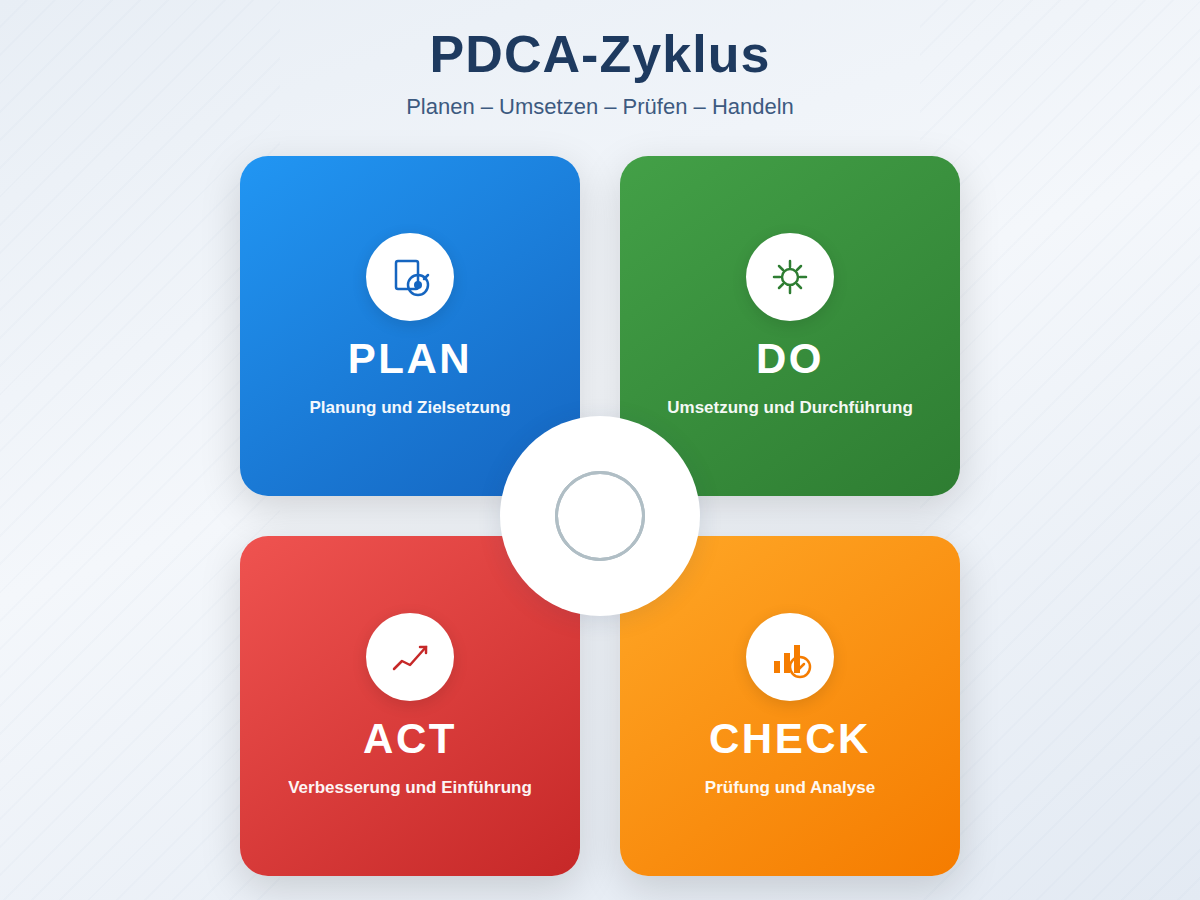
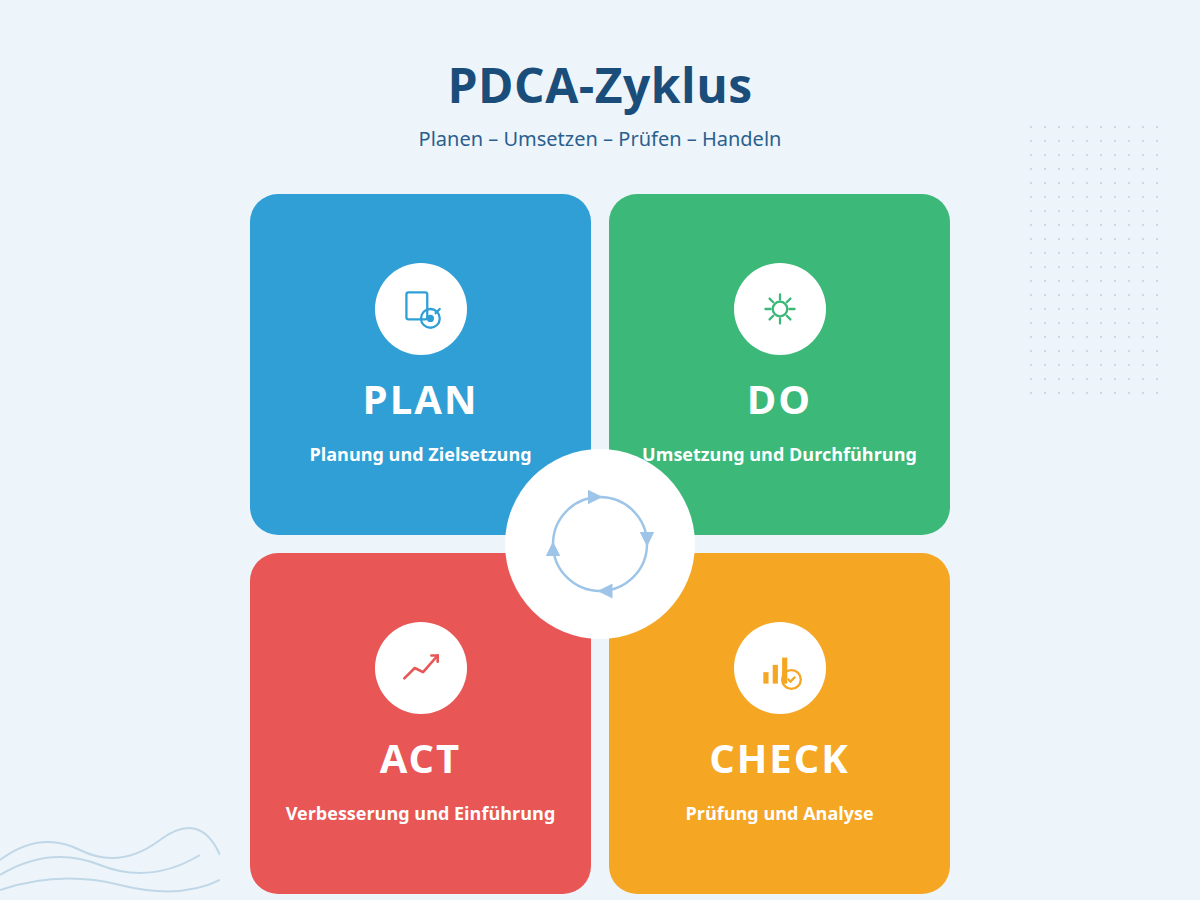
PDCA kép: referencia dizájn, csak német szöveg

diff --git a/documents/pdca/pdca-zyklus-de.html b/documents/pdca/pdca-zyklus-de.html
@@ -8,124 +8,130 @@
     body {
       width: 1200px;
       height: 900px;
-      font-family: "Helvetica Neue", Helvetica, Arial, sans-serif;
-      background: linear-gradient(160deg, #e8eef5 0%, #f4f7fb 45%, #e3eaf3 100%);
+      font-family: "Segoe UI", "Helvetica Neue", Arial, sans-serif;
+      background: #eef5fa;
       display: flex;
       flex-direction: column;
       align-items: center;
-      justify-content: center;
+      justify-content: flex-start;
+      padding-top: 52px;
       overflow: hidden;
       position: relative;
     }
-    body::before, body::after {
-      content: "";
+    .waves {
       position: absolute;
-      width: 280px;
-      height: 100%;
-      opacity: 0.35;
-      background: repeating-linear-gradient(
-        135deg,
-        transparent,
-        transparent 18px,
-        rgba(100, 130, 170, 0.08) 18px,
-        rgba(100, 130, 170, 0.08) 20px
-      );
+      left: 0;
+      bottom: 0;
+      width: 220px;
+      height: 180px;
+      opacity: 0.45;
     }
-    body::before { left: 0; }
-    body::after { right: 0; }
+    .dots {
+      position: absolute;
+      right: 36px;
+      top: 120px;
+      width: 140px;
+      height: 280px;
+      opacity: 0.35;
+      background-image: radial-gradient(#8aa8c4 1.2px, transparent 1.2px);
+      background-size: 14px 14px;
+    }
     .header {
       text-align: center;
-      margin-bottom: 36px;
+      margin-bottom: 42px;
       z-index: 1;
     }
     .header h1 {
-      font-size: 52px;
+      font-size: 48px;
       font-weight: 800;
-      color: #1e3a5f;
-      letter-spacing: 0.02em;
+      color: #1a4d7a;
+      letter-spacing: 0.01em;
     }
     .header p {
-      margin-top: 10px;
-      font-size: 22px;
-      color: #3d5a80;
+      margin-top: 8px;
+      font-size: 20px;
+      color: #2a5f8f;
       font-weight: 500;
     }
     .grid-wrap {
       position: relative;
-      width: 720px;
-      height: 720px;
+      width: 700px;
+      height: 700px;
       z-index: 1;
+      display: grid;
+      grid-template-columns: 1fr 1fr;
+      grid-template-rows: 1fr 1fr;
+      gap: 18px;
+    }
+    .quad {
+      display: flex;
+      flex-direction: column;
+      align-items: center;
+      justify-content: center;
+      gap: 16px;
+      color: #fff;
+    }
+    .quad.plan {
+      background: #2f9fd6;
+      border-radius: 28px 28px 28px 28px;
+    }
+    .quad.do {
+      background: #3cb878;
+      border-radius: 28px 28px 28px 28px;
+    }
+    .quad.check {
+      background: #f5a623;
+      border-radius: 28px 28px 28px 28px;
+    }
+    .quad.act {
+      background: #e85656;
+      border-radius: 28px 28px 28px 28px;
+    }
+    .icon-ring {
+      width: 92px;
+      height: 92px;
+      background: #fff;
+      border-radius: 50%;
+      display: grid;
+      place-items: center;
+    }
+    .icon-ring svg { width: 50px; height: 50px; }
+    .quad h2 {
+      font-size: 40px;
+      font-weight: 800;
+      letter-spacing: 0.05em;
+    }
+    .quad p {
+      font-size: 18px;
+      font-weight: 600;
+      text-align: center;
+      max-width: 280px;
+      line-height: 1.35;
     }
     .center {
       position: absolute;
       left: 50%;
       top: 50%;
       transform: translate(-50%, -50%);
-      width: 200px;
-      height: 200px;
+      width: 190px;
+      height: 190px;
       background: #fff;
       border-radius: 50%;
-      box-shadow: 0 4px 24px rgba(30, 58, 95, 0.12);
       z-index: 2;
-    }
-    .arrow {
-      position: absolute;
-      left: 50%;
-      top: 50%;
-      width: 90px;
-      height: 90px;
-      margin: -45px 0 0 -45px;
-      border: 3px solid #b0bec5;
-      border-color: transparent #b0bec5 #b0bec5 transparent;
-      border-radius: 50%;
-      transform: rotate(-45deg);
-    }
-    .arrow:nth-child(2) { transform: rotate(45deg); }
-    .arrow:nth-child(3) { transform: rotate(135deg); }
-    .arrow:nth-child(4) { transform: rotate(225deg); }
-    .quad {
-      position: absolute;
-      width: 340px;
-      height: 340px;
-      border-radius: 28px;
-      display: flex;
-      flex-direction: column;
-      align-items: center;
-      justify-content: center;
-      gap: 14px;
-      color: #fff;
-      box-shadow: 0 12px 40px rgba(0,0,0,0.15);
-    }
-    .quad.plan { background: linear-gradient(145deg, #2196f3, #1565c0); top: 0; left: 0; }
-    .quad.do { background: linear-gradient(145deg, #43a047, #2e7d32); top: 0; right: 0; }
-    .quad.check { background: linear-gradient(145deg, #ffa726, #f57c00); bottom: 0; right: 0; }
-    .quad.act { background: linear-gradient(145deg, #ef5350, #c62828); bottom: 0; left: 0; }
-    .icon-ring {
-      width: 88px;
-      height: 88px;
-      background: #fff;
-      border-radius: 50%;
       display: grid;
       place-items: center;
-      box-shadow: 0 4px 16px rgba(0,0,0,0.12);
     }
-    .icon-ring svg { width: 48px; height: 48px; }
-    .quad h2 {
-      font-size: 42px;
-      font-weight: 800;
-      letter-spacing: 0.06em;
-    }
-    .quad p {
-      font-size: 17px;
-      font-weight: 600;
-      opacity: 0.95;
-      text-align: center;
-      max-width: 260px;
-      line-height: 1.3;
-    }
+    .center svg { width: 130px; height: 130px; }
   </style>
 </head>
 <body>
+  <svg class="waves" viewBox="0 0 220 180" fill="none" xmlns="http://www.w3.org/2000/svg">
+    <path d="M0 140 Q40 110 80 130 T160 120 T220 135" stroke="#8ab4d4" stroke-width="2" fill="none"/>
+    <path d="M0 155 Q50 125 100 145 T200 135" stroke="#8ab4d4" stroke-width="2" fill="none"/>
+    <path d="M0 170 Q60 150 120 165 T220 160" stroke="#8ab4d4" stroke-width="2" fill="none"/>
+  </svg>
+  <div class="dots" aria-hidden="true"></div>
+
   <header class="header">
     <h1>PDCA-Zyklus</h1>
     <p>Planen – Umsetzen – Prüfen – Handeln</p>
@@ -134,12 +140,7 @@
   <div class="grid-wrap">
     <div class="quad plan">
       <div class="icon-ring">
-        <svg viewBox="0 0 48 48" fill="none" xmlns="http://www.w3.org/2000/svg">
-          <rect x="10" y="8" width="22" height="28" rx="2" stroke="#1565c0" stroke-width="2.5"/>
-          <circle cx="32" cy="32" r="10" stroke="#1565c0" stroke-width="2.5"/>
-          <circle cx="32" cy="32" r="4" fill="#1565c0"/>
-          <path d="M38 26l4-4" stroke="#1565c0" stroke-width="2.5" stroke-linecap="round"/>
-        </svg>
+        <svg viewBox="0 0 48 48" fill="none"><rect x="10" y="8" width="20" height="26" rx="2" stroke="#2f9fd6" stroke-width="2.2"/><circle cx="33" cy="33" r="9" stroke="#2f9fd6" stroke-width="2.2"/><circle cx="33" cy="33" r="3.5" fill="#2f9fd6"/><path d="M38 28l4-4" stroke="#2f9fd6" stroke-width="2.2" stroke-linecap="round"/></svg>
       </div>
       <h2>PLAN</h2>
       <p>Planung und Zielsetzung</p>
@@ -147,45 +148,36 @@
 
     <div class="quad do">
       <div class="icon-ring">
-        <svg viewBox="0 0 48 48" fill="none" xmlns="http://www.w3.org/2000/svg">
-          <circle cx="24" cy="24" r="8" stroke="#2e7d32" stroke-width="2.5"/>
-          <path d="M24 8v6M24 34v6M8 24h6M34 24h6M13 13l4 4M31 31l4 4M35 13l-4 4M17 31l-4 4" stroke="#2e7d32" stroke-width="2.5" stroke-linecap="round"/>
-        </svg>
+        <svg viewBox="0 0 48 48" fill="none"><circle cx="24" cy="24" r="7" stroke="#3cb878" stroke-width="2.2"/><path d="M24 10v5M24 33v5M10 24h5M33 24h5M14 14l3.5 3.5M30.5 30.5 34 34M34 14l-3.5 3.5M14 34l3.5-3.5" stroke="#3cb878" stroke-width="2.2" stroke-linecap="round"/></svg>
       </div>
       <h2>DO</h2>
       <p>Umsetzung und Durchführung</p>
     </div>
 
-    <div class="quad check">
-      <div class="icon-ring">
-        <svg viewBox="0 0 48 48" fill="none" xmlns="http://www.w3.org/2000/svg">
-          <rect x="8" y="28" width="6" height="12" fill="#f57c00"/>
-          <rect x="18" y="20" width="6" height="20" fill="#f57c00"/>
-          <rect x="28" y="12" width="6" height="28" fill="#f57c00"/>
-          <circle cx="34" cy="34" r="10" stroke="#f57c00" stroke-width="2.5"/>
-          <path d="M31 34l2 2 5-5" stroke="#f57c00" stroke-width="2.5" stroke-linecap="round"/>
-        </svg>
-      </div>
-      <h2>CHECK</h2>
-      <p>Prüfung und Analyse</p>
-    </div>
-
     <div class="quad act">
       <div class="icon-ring">
-        <svg viewBox="0 0 48 48" fill="none" xmlns="http://www.w3.org/2000/svg">
-          <path d="M8 36 L16 28 L24 32 L40 14" stroke="#c62828" stroke-width="2.5" stroke-linecap="round" stroke-linejoin="round"/>
-          <path d="M34 14h6v6" stroke="#c62828" stroke-width="2.5" stroke-linecap="round"/>
-        </svg>
+        <svg viewBox="0 0 48 48" fill="none"><path d="M8 34 L18 24 L26 28 L40 12" stroke="#e85656" stroke-width="2.5" stroke-linecap="round" stroke-linejoin="round"/><path d="M34 12h6v6" stroke="#e85656" stroke-width="2.5" stroke-linecap="round"/></svg>
       </div>
       <h2>ACT</h2>
       <p>Verbesserung und Einführung</p>
     </div>
 
+    <div class="quad check">
+      <div class="icon-ring">
+        <svg viewBox="0 0 48 48" fill="none"><rect x="8" y="28" width="5" height="11" fill="#f5a623"/><rect x="17" y="21" width="5" height="18" fill="#f5a623"/><rect x="26" y="14" width="5" height="25" fill="#f5a623"/><circle cx="35" cy="35" r="9" stroke="#f5a623" stroke-width="2.2"/><path d="M32 35l2 2 4-4" stroke="#f5a623" stroke-width="2.2" stroke-linecap="round"/></svg>
+      </div>
+      <h2>CHECK</h2>
+      <p>Prüfung und Analyse</p>
+    </div>
+
     <div class="center">
-      <div class="arrow"></div>
-      <div class="arrow"></div>
-      <div class="arrow"></div>
-      <div class="arrow"></div>
+      <svg viewBox="0 0 130 130" fill="none">
+        <path d="M65 18 A47 47 0 0 1 112 65" stroke="#9ec5e8" stroke-width="2.5" stroke-linecap="round" marker-end="url(#arr)"/>
+        <path d="M112 65 A47 47 0 0 1 65 112" stroke="#9ec5e8" stroke-width="2.5" stroke-linecap="round" marker-end="url(#arr)"/>
+        <path d="M65 112 A47 47 0 0 1 18 65" stroke="#9ec5e8" stroke-width="2.5" stroke-linecap="round" marker-end="url(#arr)"/>
+        <path d="M18 65 A47 47 0 0 1 65 18" stroke="#9ec5e8" stroke-width="2.5" stroke-linecap="round" marker-end="url(#arr)"/>
+        <defs><marker id="arr" markerWidth="6" markerHeight="6" refX="5" refY="3" orient="auto"><path d="M0,0 L6,3 L0,6 Z" fill="#9ec5e8"/></marker></defs>
+      </svg>
     </div>
   </div>
 </body>